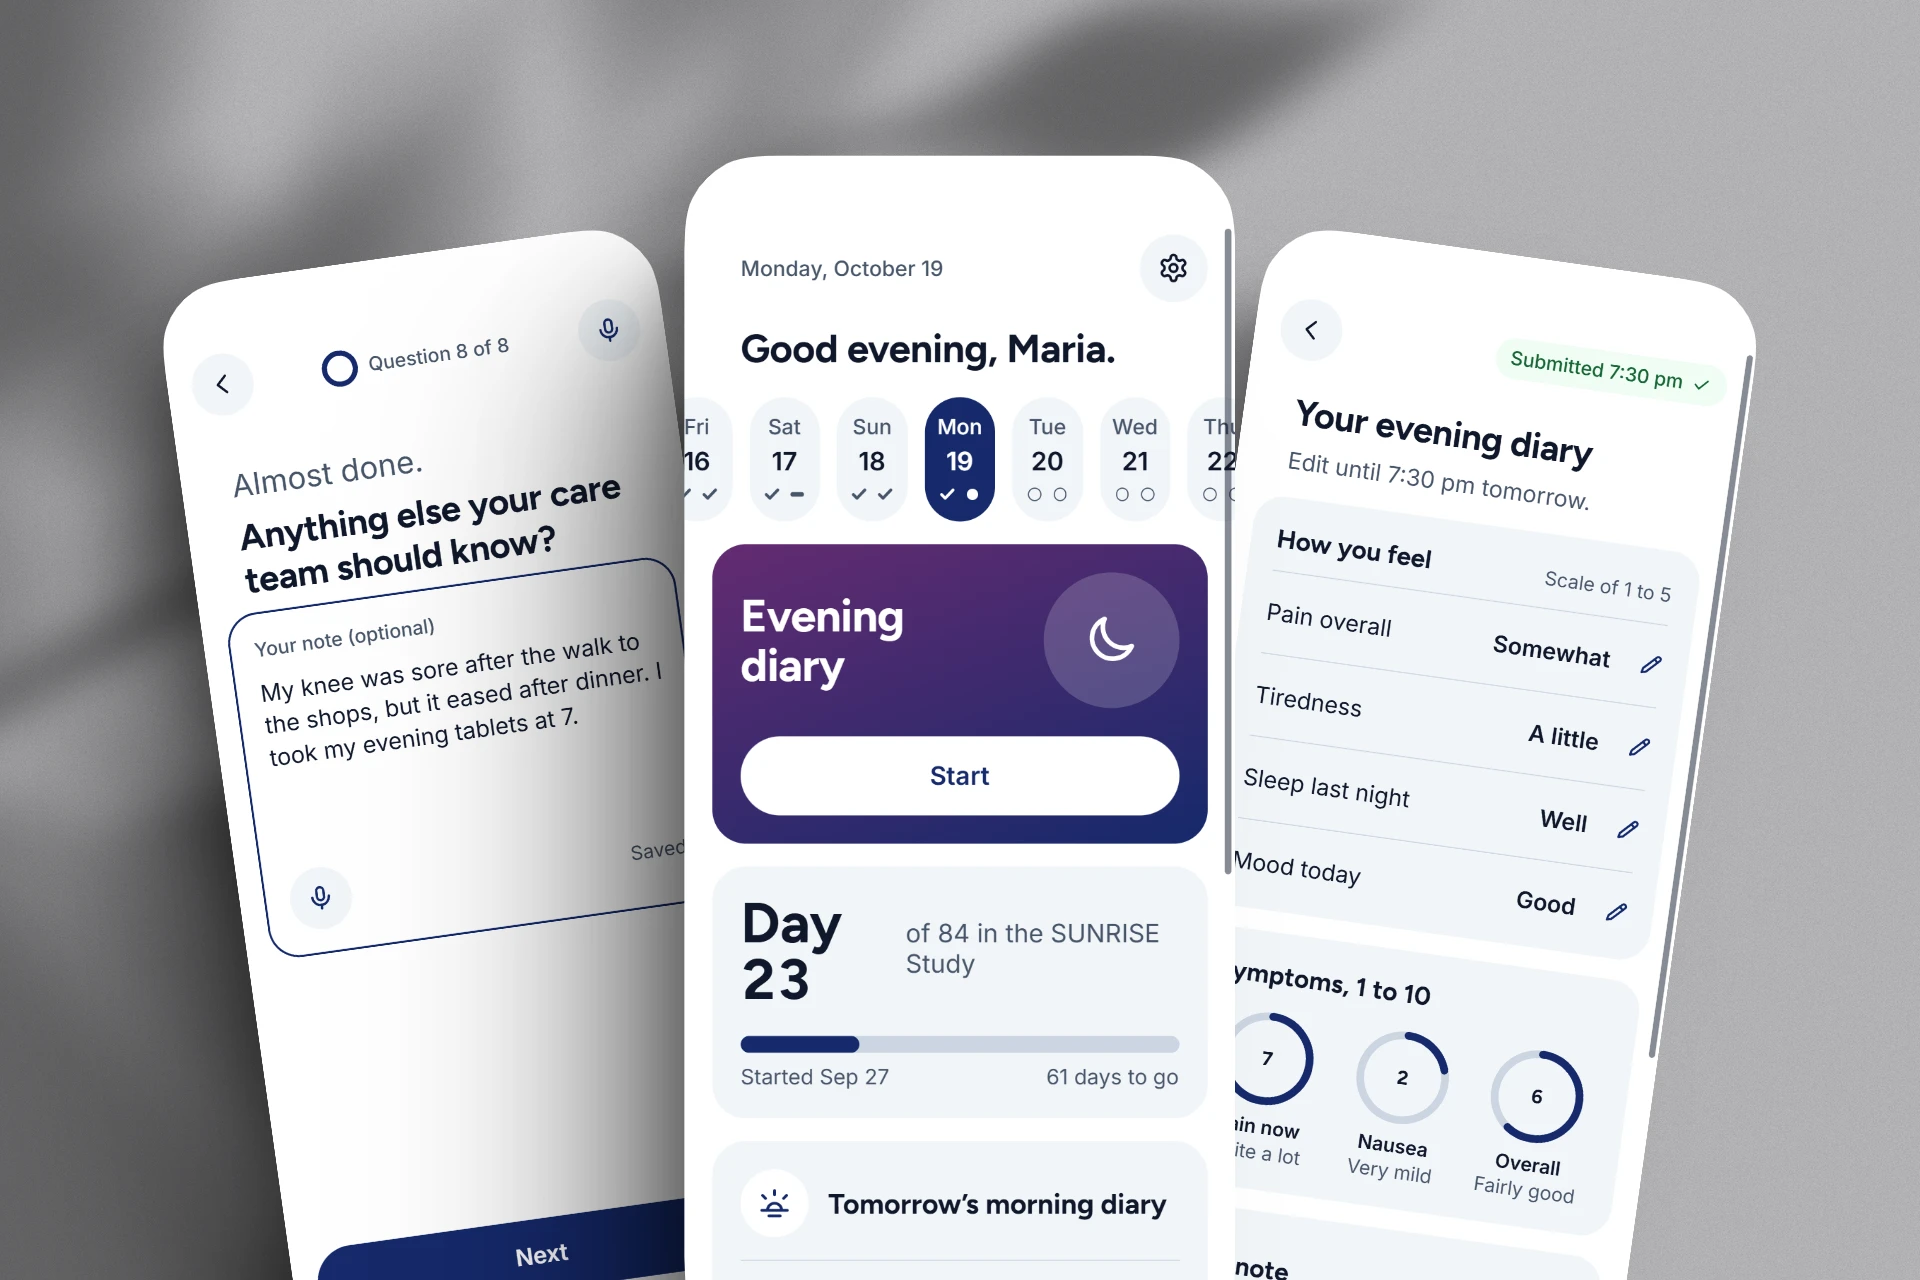
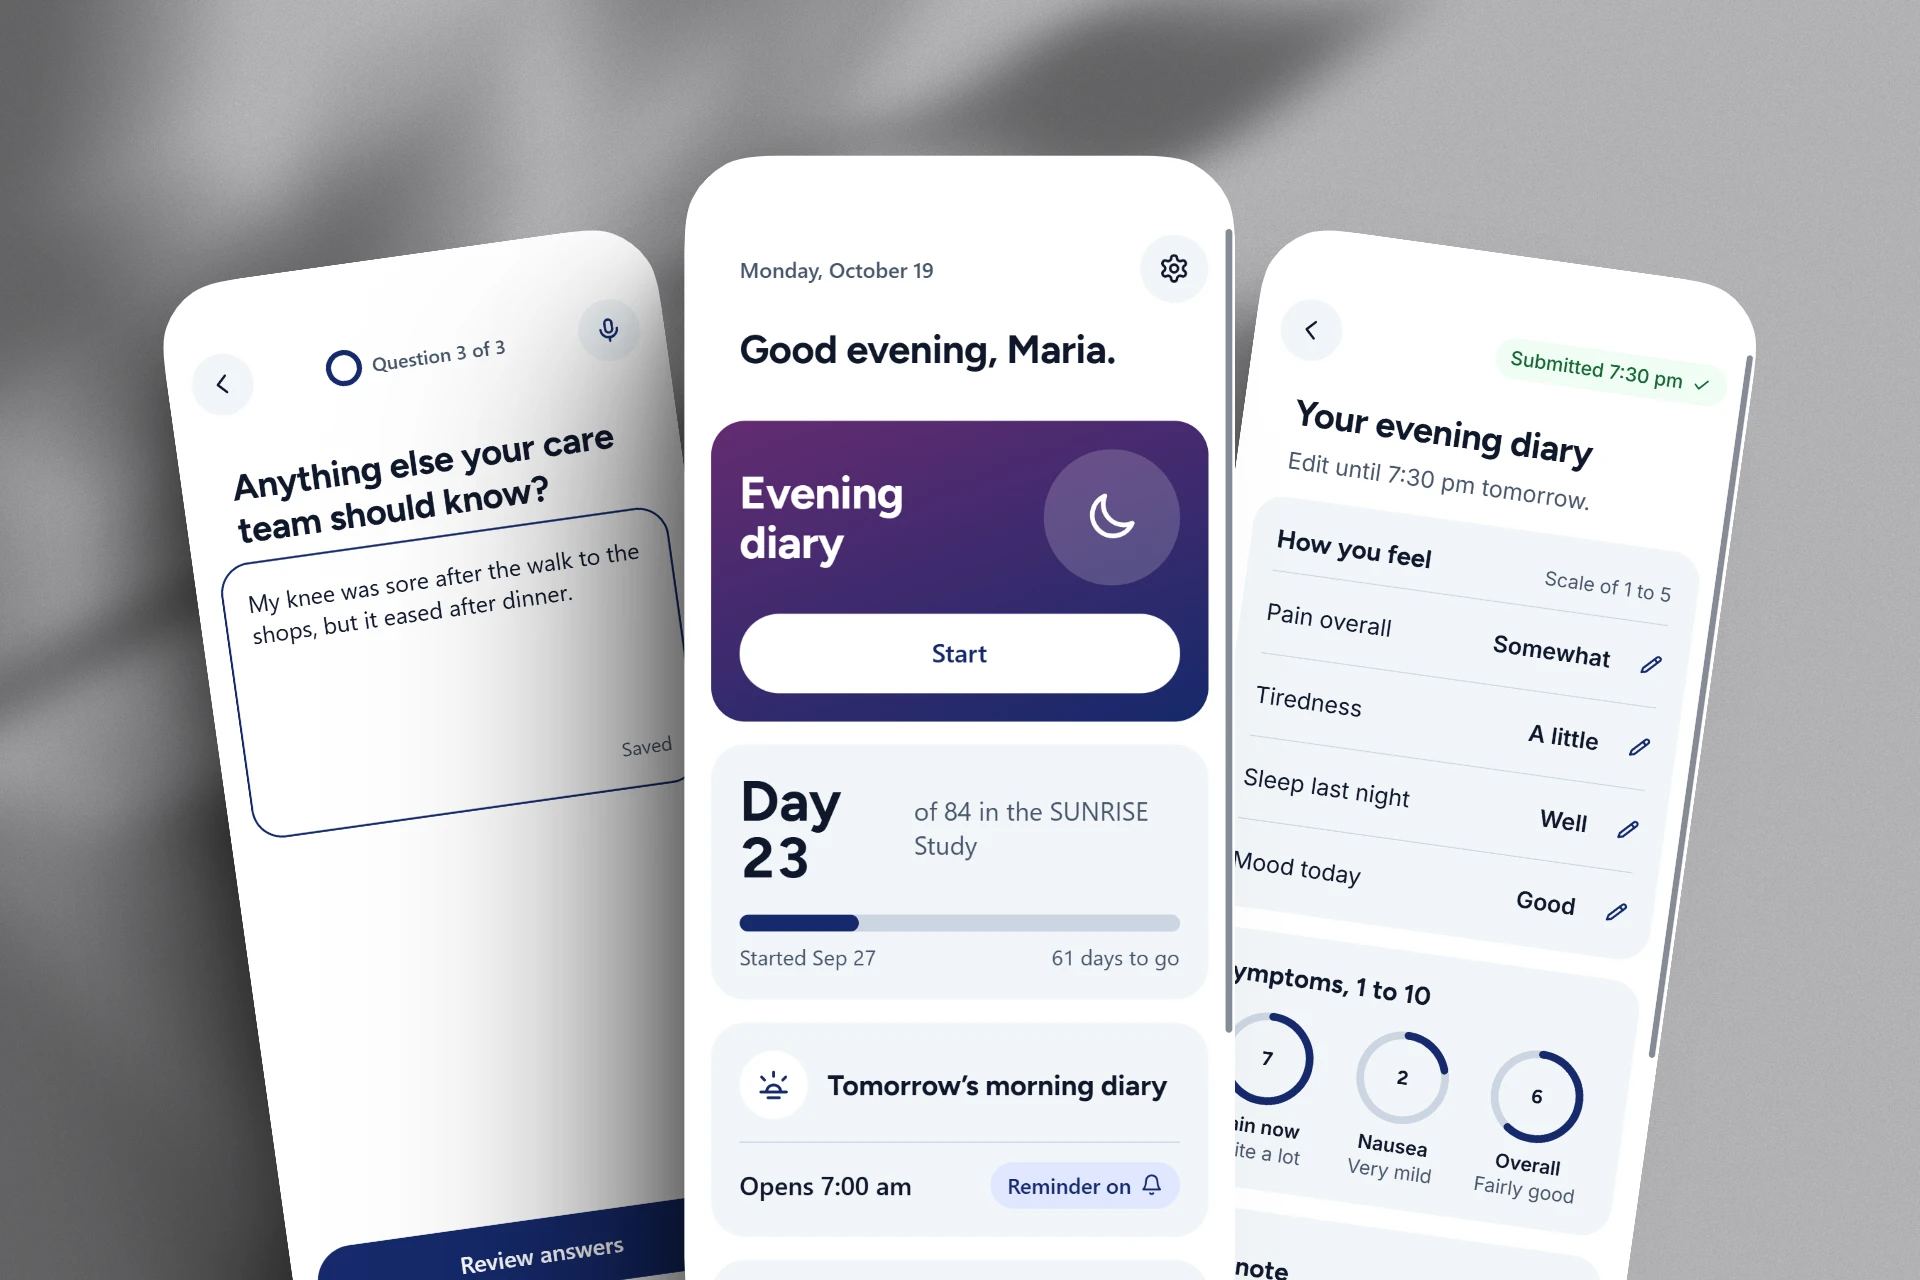
Replace the ePRO hero image
Claude-Session: https://claude.ai/code/session_0196Ae2T5FvwkwyFddqCoPdG

diff --git a/lib/projects.ts b/lib/projects.ts
@@ -224,7 +224,7 @@ export const projects: Project[] = [
       heroLayout: 'stacked',
       heroMedia: {
         src: '/work/epro/hero.webp',
-        alt: 'Three screens of the rebuilt ePRO app fanned on a grey surface: the last question asking “Anything else your care team should know?” with a typed note, the home screen greeting Maria with a week strip and an Evening diary card, and a submitted evening diary listing her answers.',
+        alt: 'Three screens of the rebuilt ePRO app fanned on a grey surface: the last of three questions asking “Anything else your care team should know?” with a saved note and a Review answers button, the home screen greeting Maria with an Evening diary card and study progress, and a submitted evening diary listing her answers.',
         variant: 'bleed',
       },
       // Visual 1 is still a placeholder: set its `src` to the finished
